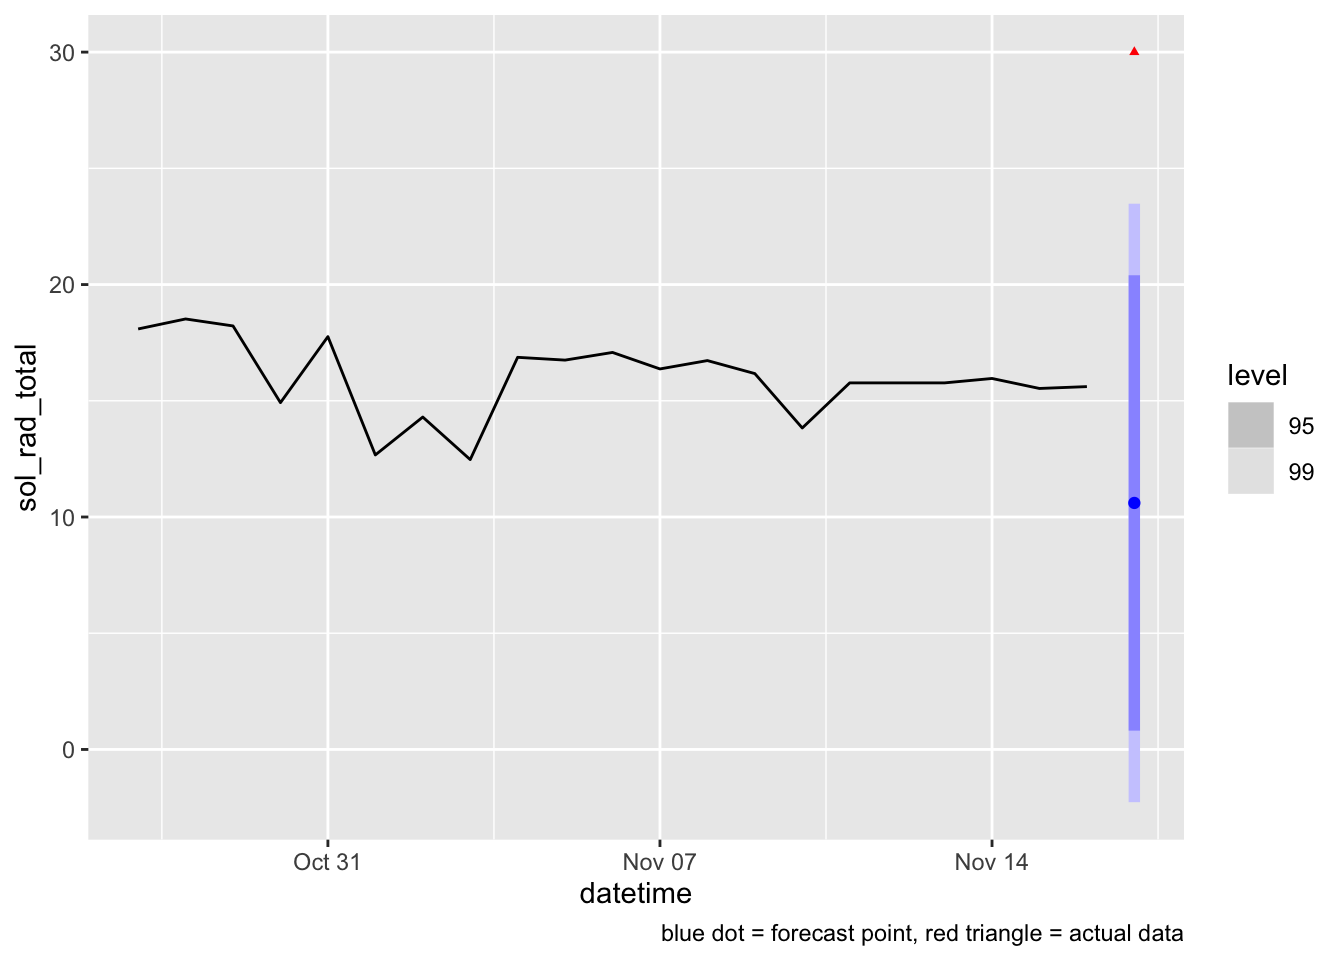
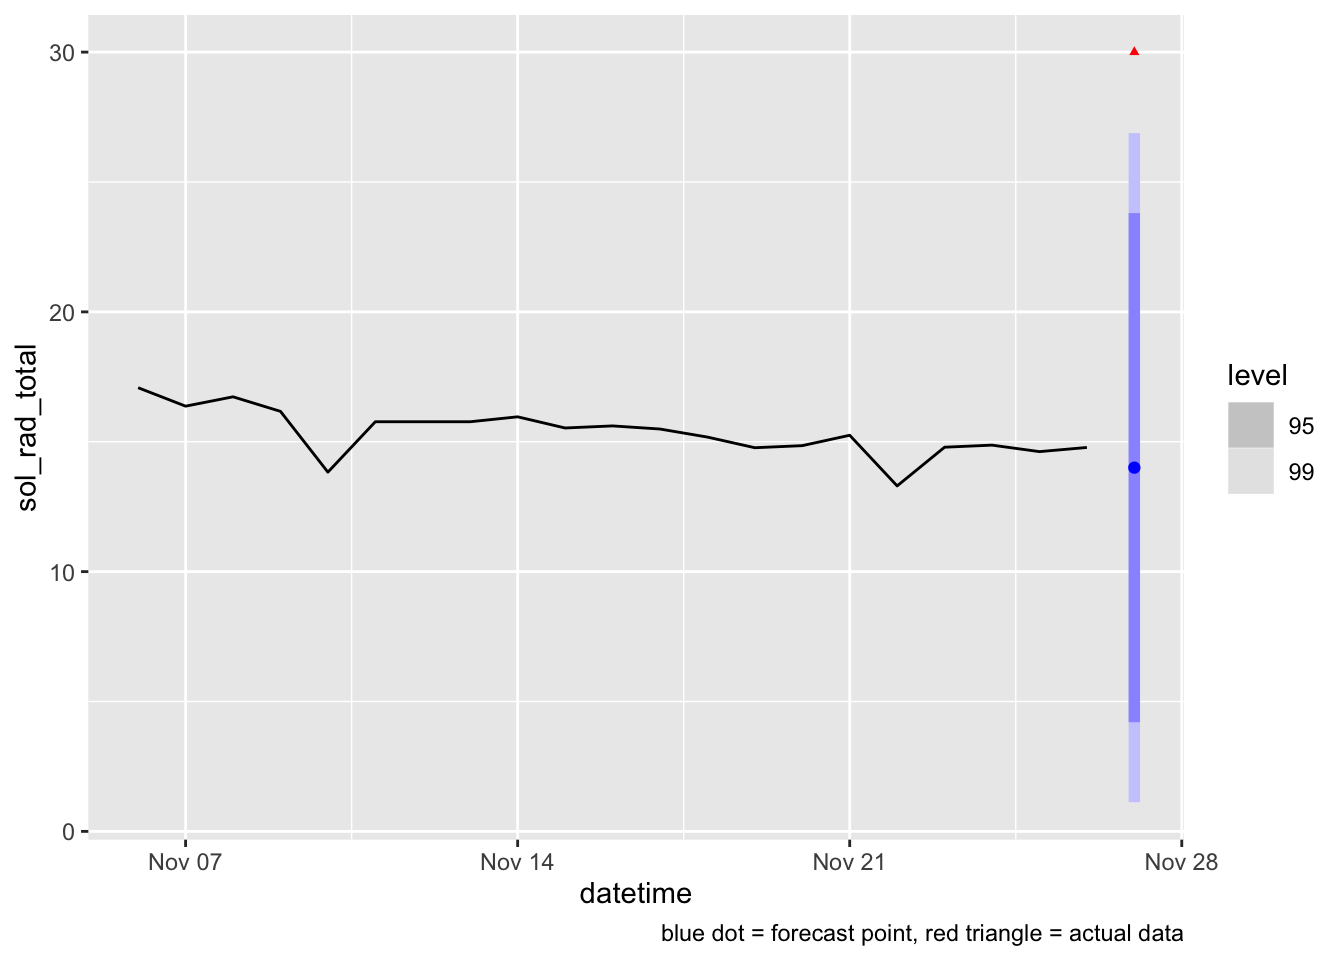
run workflow

diff --git a/docs/report.html b/docs/report.html
@@ -217,7 +217,7 @@ The following objects are masked from 'package:base':
 # Key:       meta_station_id, meta_station_name [1]
   meta_station_id meta_station_name datetime   sol_rad_total forecast flag   
   &lt;chr&gt;           &lt;chr&gt;             &lt;date&gt;             &lt;dbl&gt;    &lt;dbl&gt; &lt;chr&gt;  
-1 az01            Tucson            2022-11-17            30     10.6 extreme</code></pre>
+1 az01            Tucson            2022-11-27            30     14.0 extreme</code></pre>
 </div>
 </div>
 <p>Filter by stations with flags and only plot those. Or maybe embed a simple shiny app that lets you view different stations?</p>
